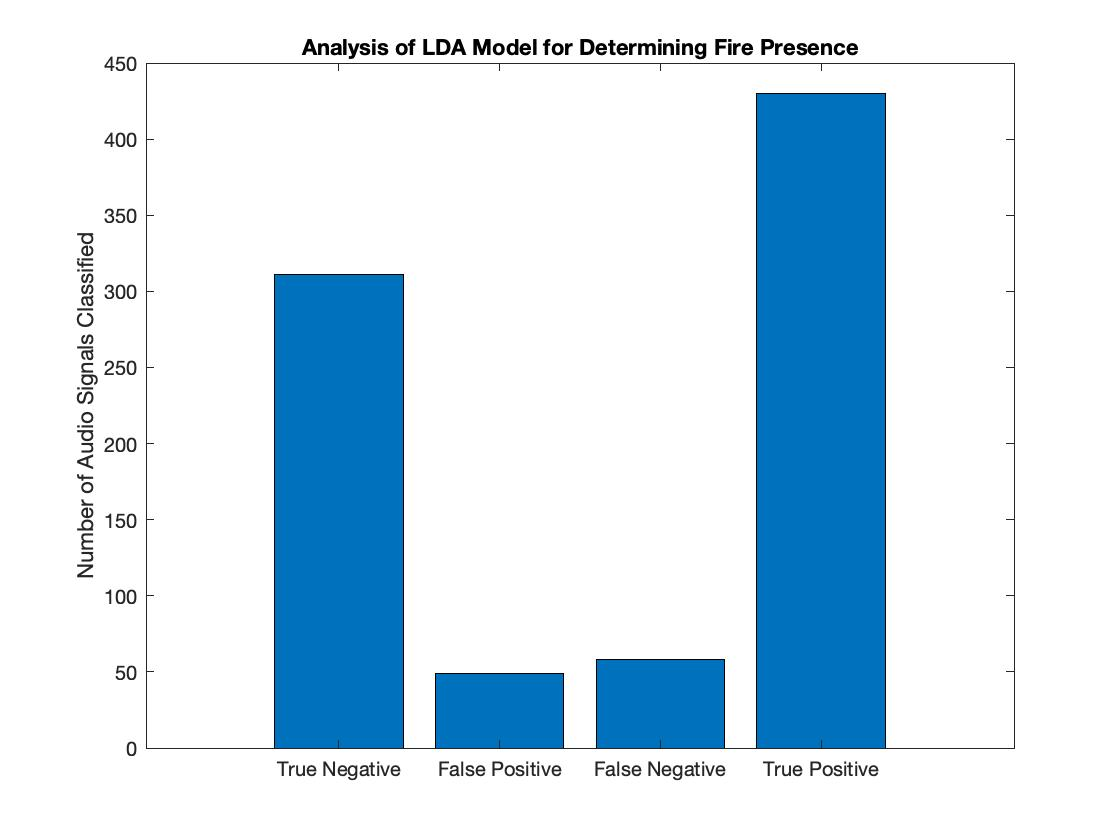
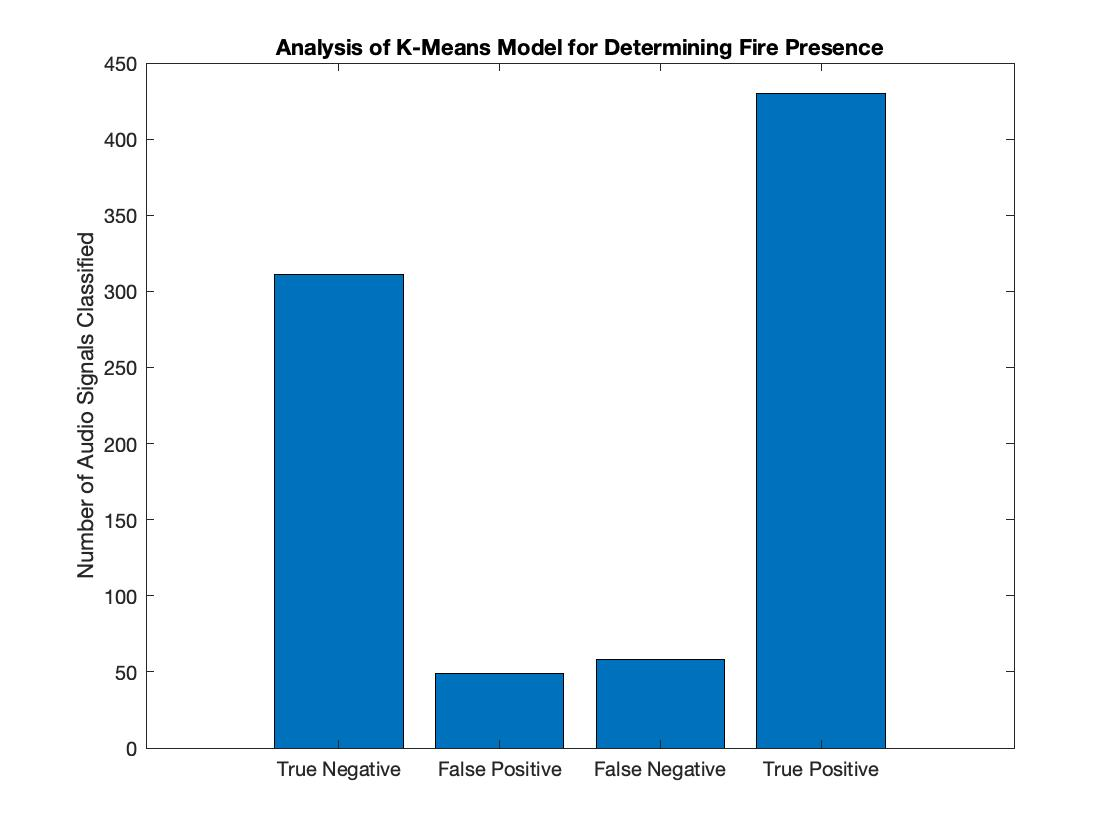
Changes I forgot to push

Changed region(s): [[0.25, 0.031, 0.7812, 0.0929]]

diff --git a/Test_KMeans.m b/Test_KMeans.m
@@ -9,21 +9,26 @@ csvAmbientResult = 'ambient_magnitudes.csv';
 csvFireFrequencyDir = 'CSV_Fire_Frequencies/';
 csvAmbientFrequencyDir = 'CSV_Ambient_Frequencies/';
 
-X = [];
-Y = [];
-Z = [];
+truePositiveRates = [];
+falsePositiveRates = [];
+falseNegatives = [];
+falsePositives = [];
 
 for binSize = 1 : 50
 
-% binSize = 5;
+% binSize = 19;
 
 % Uses CSV Frequency File Directory to create fire_magnitudes.csv and
 % ambient_magnitudes.csv
-csvFireFile = ['fire_magnitudes_' num2str(binSize) '.csv'];
-csvFireResult = [csvFireFrequencyDir csvFireFile];
+
+
+% For Setting Matrix files for different bin sizes
+% csvFireFile = ['fire_magnitudes_' num2str(binSize) '.csv'];
+% csvAmbientFile = ['ambient_magnitudes_' num2str(binSize) '.csv'];
+% csvFireResult = [csvFireFrequencyDir csvFireFile];
+% csvAmbientResult = [csvAmbientFrequencyDir csvAmbientFile];
+
 Group_Frequencies(csvFireDir, binSize, csvFireResult);
-csvAmbientFile = ['ambient_magnitudes_' num2str(binSize) '.csv'];
-csvAmbientResult = [csvAmbientFrequencyDir csvAmbientFile];
 Group_Frequencies(csvAmbientDir, binSize, csvAmbientResult);
 
 % Uses fire_magnitudes.csv and ambient_magnitudes.csv to create
@@ -43,13 +48,33 @@ frequency_KMeans();
 tpr = (truePositive / (truePositive + falseNegative));
 fpr = (falsePositive /(trueNegative + falsePositive));
 
-X = [X, fpr];
+% False Positive Rate
+falsePositiveRates = [falsePositiveRates, fpr];
 % True Positive Rate
-Y = [Y, tpr];
-Z = [Z, falseNegative];
+truePositiveRates = [truePositiveRates, tpr];
+% False Negative Value
+falseNegatives = [falseNegatives, falseNegative];
+% True Negative Value
+falsePositives = [falsePositives, falsePositive];end
+minFN = min(falseNegatives);
+possibleMinFP = [];
+possibleMinFPIndex = [];
+
+for iter = 1 : 50
+    if falseNegatives(iter) == minFN
+        possibleMinFP = [possibleMinFP, falsePositives(iter)];
+        possibleMinFPIndex = [possibleMinFPIndex, iter];
+    end
 end
+[minFP, minFPIndex] = min(possibleMinFP);
+
+totalMinIndex = possibleMinFPIndex(minFPIndex)
+
+% totalNegatives = falseNegatives + falsePositives;
+% [minVal, index] = min(totalNegatives)
+
 figure(1);
-plot(X,Y)
+plot(falsePositiveRates, truePositiveRates)
 hold on
 hline = refline(1, 0);
 hline.Color = 'k';
@@ -58,9 +83,18 @@ xlabel('False Positive Rate');
 ylabel('True Positive Rate');
 title('ROC Curve');
 
-binSize = 1 : 50;
+binSizes = 1 : 50;
 figure(2);
-plot(binSize, Z);
+plot(binSizes, falseNegatives);
+title('False Classifications Results for Varying Bin Size');
+xlabel('Frequency Bin Size (Hz)');
+ylabel('Number of Classifications');
+hold on
 
+plot(binSizes, falsePositives);
+hold on
 
-
+lineX = totalMinIndex;
+lineY = 0 : max(falsePositives);
+line([totalMinIndex, totalMinIndex], [0, 70], 'Color','black','LineStyle','--');
+legend('False Negatives', 'False Positives', 'Minimum Error Binsize');

diff --git a/KMeans_Analysis.m b/KMeans_Analysis.m
@@ -39,8 +39,8 @@ ConfusionMatrix = [trueNegative, falsePositive; falseNegative, truePositive];
 % Plot Results
 labels= {'True Negative','False Positive','False Negative','True Positive'};
 data = [trueNegative, falsePositive, falseNegative, truePositive];
-% bar(data);
-% title('Analysis of LDA Model for Determining Fire Presence');
-% ylabel('Number of Audio Signals Classified');
-% set(gca,'xticklabel',labels);
+bar(data);
+title('Analysis of K-Means Model for Determining Fire Presence');
+ylabel('Number of Audio Signals Classified');
+set(gca,'xticklabel',labels);
 end

diff --git a/Run_Train_Model.m b/Run_Train_Model.m
@@ -9,3 +9,4 @@ binSize = 5;
 audioSignalAnalyze(testAudioFile, csvWriteDir);
 
 Group_Frequencies(csvWriteDir, binSize, csvResult);
+
